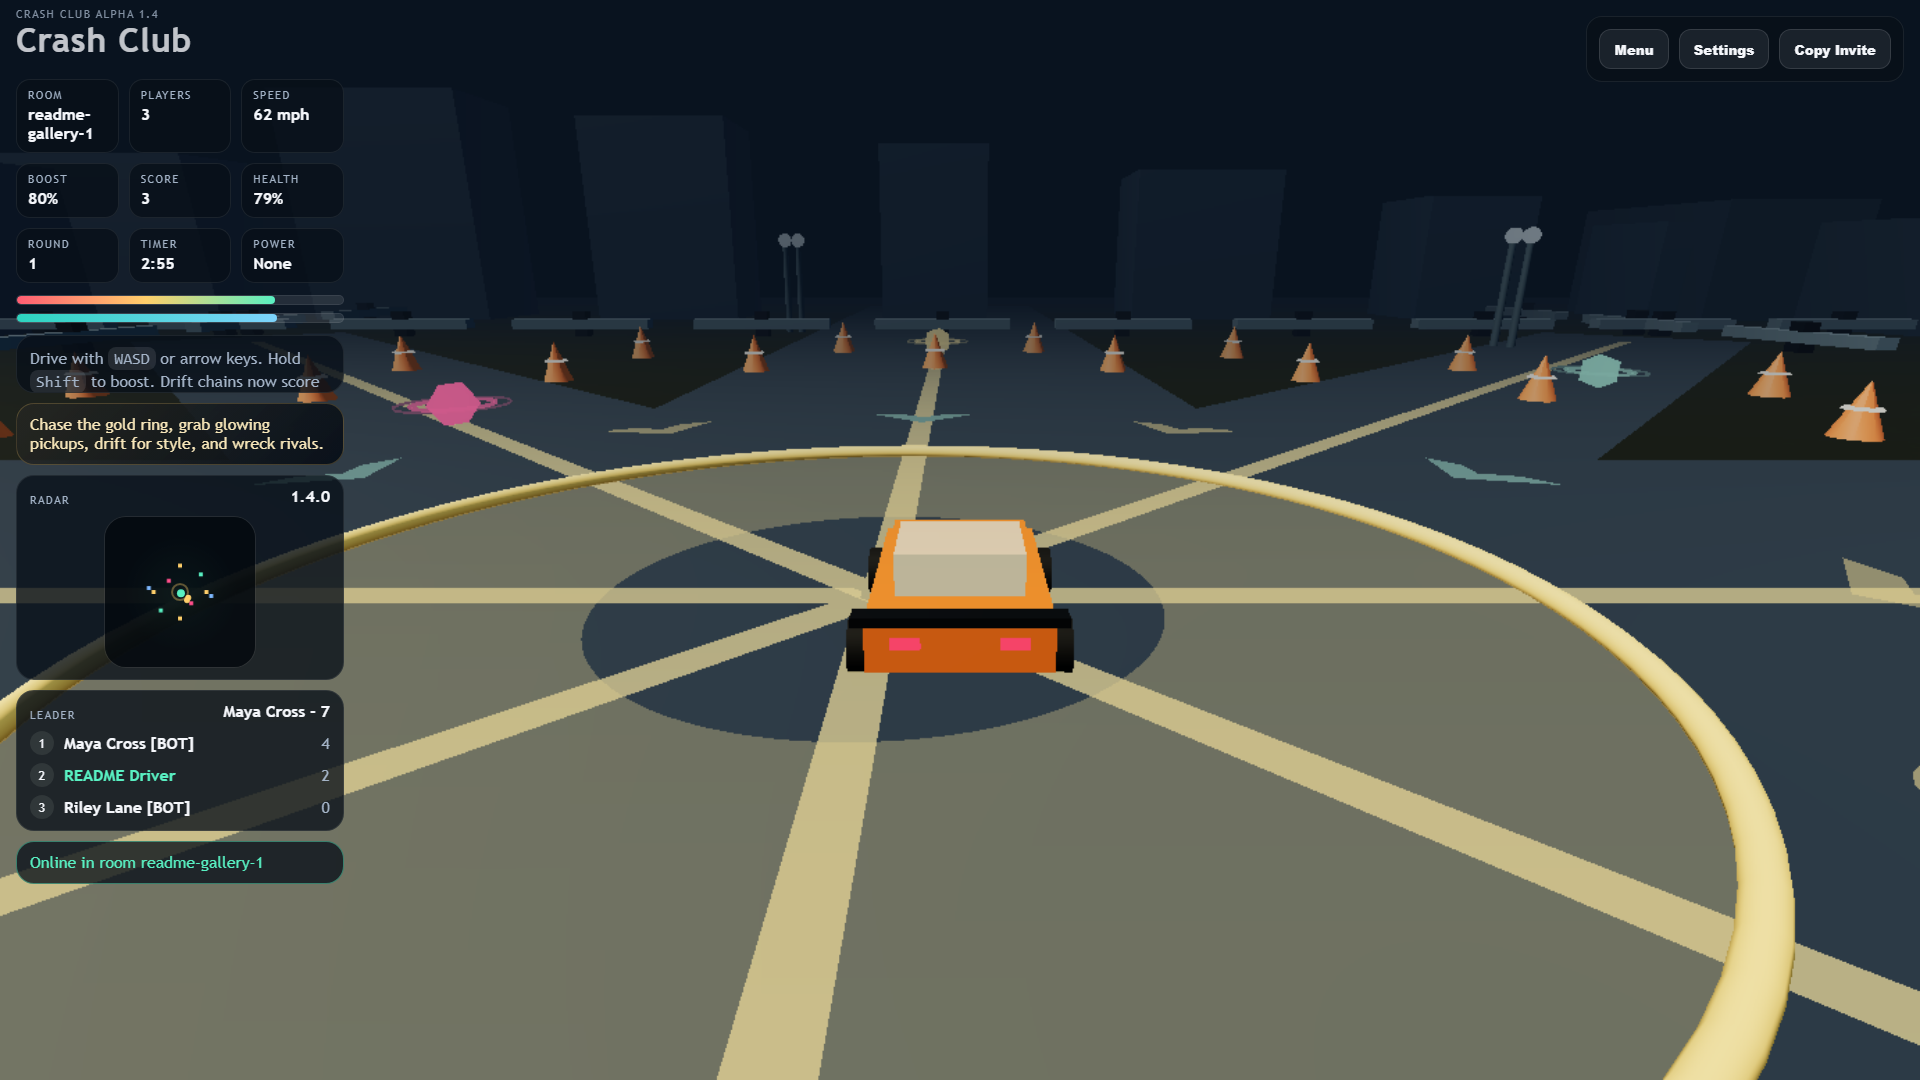
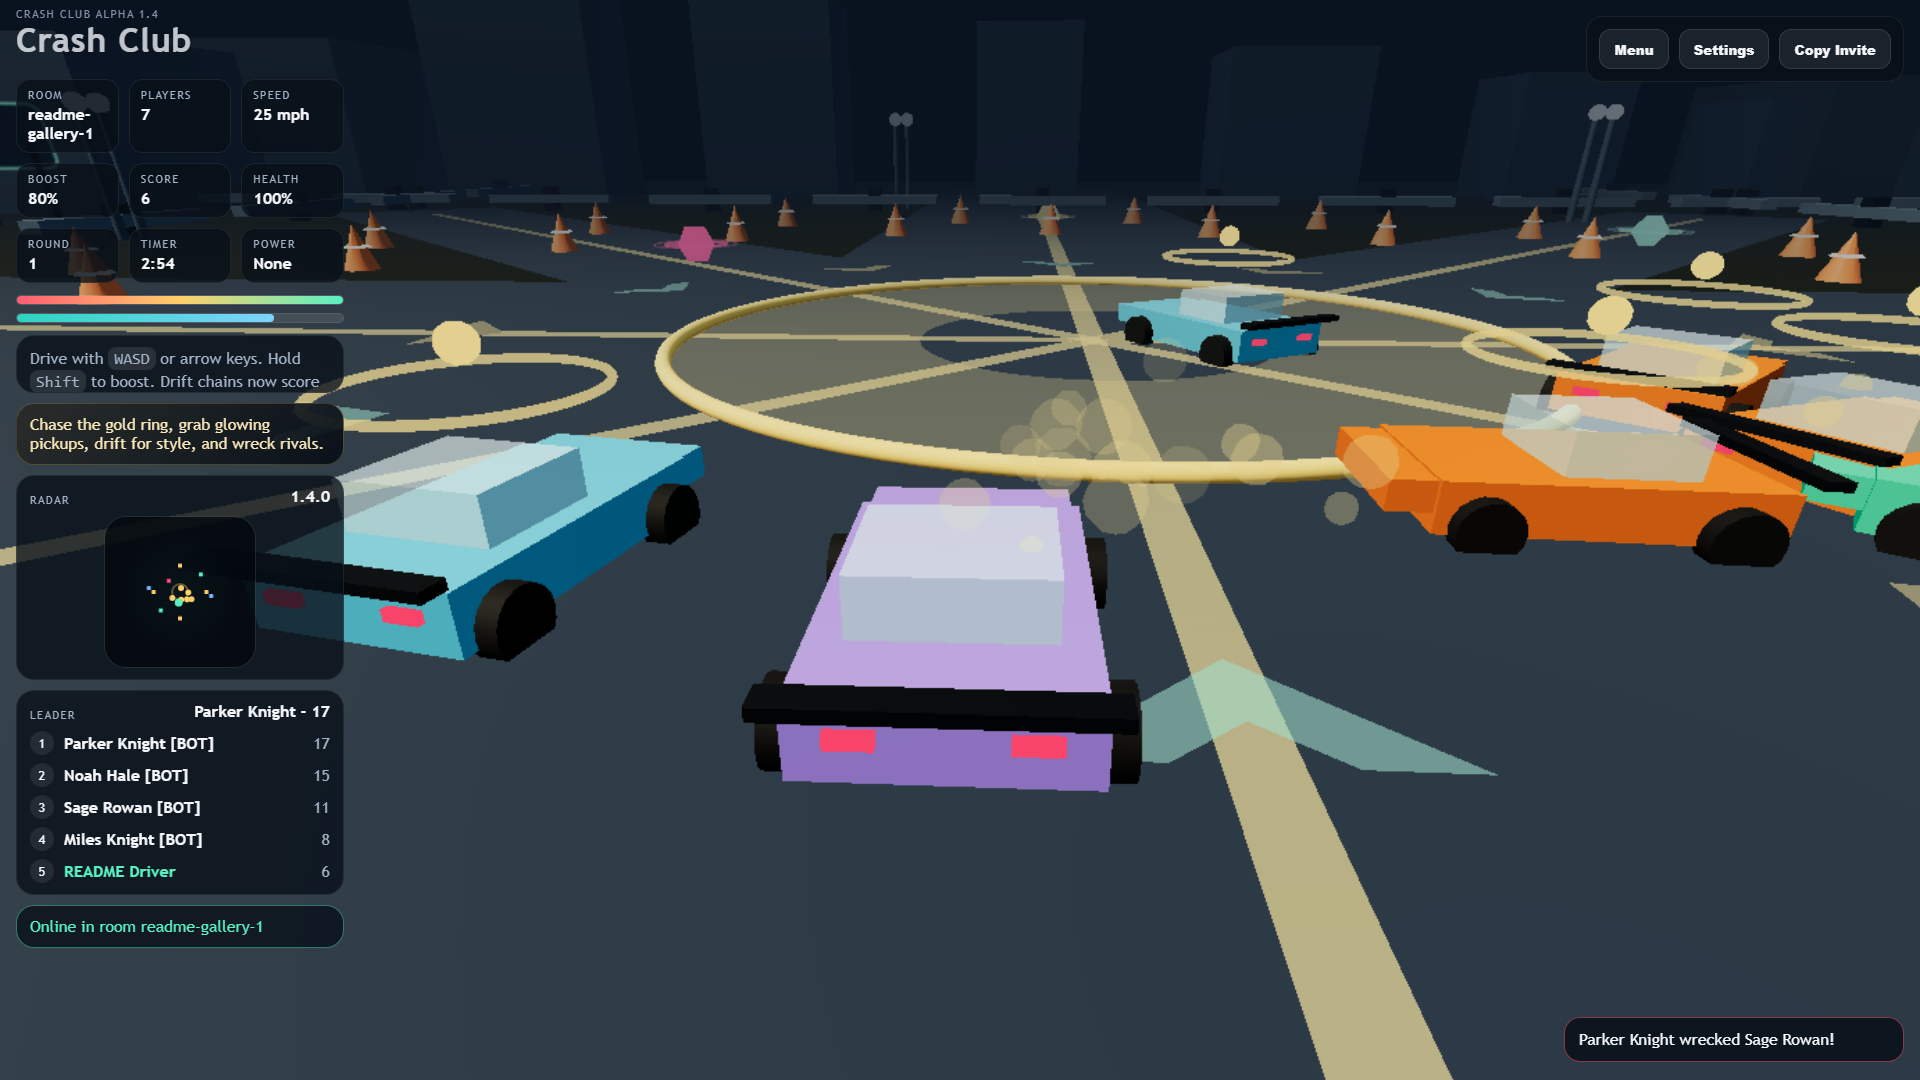
Tune bots and add room picker

diff --git a/public/app.js b/public/app.js
@@ -25,6 +25,7 @@ import("three")
       app: document.getElementById("app"),
       release: document.getElementById("release-screen"),
       name: document.getElementById("name-input"),
+      roomInput: document.getElementById("room-input"),
       start: document.getElementById("start-button"),
       rename: document.getElementById("rename-button"),
       menu: document.getElementById("menu-button"),
@@ -60,14 +61,16 @@ import("three")
       sound: document.getElementById("sound-toggle"),
       soundMenu: document.getElementById("sound-toggle-popover"),
       volume: document.getElementById("volume-slider"),
-      volumeMenu: document.getElementById("volume-slider-popover")
+      volumeMenu: document.getElementById("volume-slider-popover"),
+      roomInputMenu: document.getElementById("room-input-popover"),
+      roomJoin: document.getElementById("room-join-button")
     };
     const modeOverlay = createModeOverlay();
     const settings = loadSettings();
     applyQualityClasses();
 
     const url = new URL(location.href);
-    const roomCode = sanitizeRoom(url.searchParams.get("room") || "main");
+    let roomCode = sanitizeRoom(url.searchParams.get("room") || localStorage.getItem("crash-club-room") || "main");
     const input = new Set();
     const players = new Map();
     const pickups = new Map();
@@ -173,6 +176,7 @@ import("three")
     if (els.room) els.room.textContent = roomCode;
     if (els.version) els.version.textContent = VERSION;
     if (els.name) els.name.value = state.car.name;
+    syncRoomInputs();
 
     const scene = new THREE.Scene();
     scene.background = new THREE.Color("#09131f");
@@ -1170,6 +1174,16 @@ import("three")
       els.name?.addEventListener("keydown", (event) => {
         if (event.key === "Enter") startDriving();
       });
+      els.roomInput?.addEventListener("keydown", (event) => {
+        if (event.key === "Enter") startDriving();
+      });
+      els.roomInputMenu?.addEventListener("keydown", (event) => {
+        if (event.key === "Enter") {
+          event.preventDefault();
+          joinTypedRoom();
+        }
+      });
+      els.roomJoin?.addEventListener("click", joinTypedRoom);
       addEventListener("pointermove", handlePointerLook);
       addEventListener("pointerdown", (event) => {
         if (state.mode === "gulag") {
@@ -1233,6 +1247,57 @@ import("three")
         button.addEventListener("pointercancel", release);
         button.addEventListener("pointerleave", release);
       }
+    }
+
+    function syncRoomInputs() {
+      for (const input of [els.roomInput, els.roomInputMenu]) {
+        if (input) input.value = roomCode;
+      }
+      if (els.room) els.room.textContent = roomCode;
+    }
+
+    function setRoomCode(value, options = {}) {
+      const nextRoom = sanitizeRoom(value);
+      const changed = nextRoom !== roomCode;
+      roomCode = nextRoom;
+      state.room.code = roomCode;
+      localStorage.setItem("crash-club-room", roomCode);
+      syncRoomInputs();
+      if (options.updateUrl !== false) {
+        const nextUrl = new URL(location.href);
+        if (roomCode === "main") nextUrl.searchParams.delete("room");
+        else nextUrl.searchParams.set("room", roomCode);
+        history.replaceState(null, "", `${nextUrl.pathname}${nextUrl.search}${nextUrl.hash}`);
+      }
+      return changed;
+    }
+
+    function getTypedRoomCode() {
+      return els.roomInputMenu?.value || els.roomInput?.value || roomCode;
+    }
+
+    function roomShareUrl(code = roomCode) {
+      const nextRoom = sanitizeRoom(code);
+      const invite = new URL(location.href);
+      if (nextRoom === "main") invite.searchParams.delete("room");
+      else invite.searchParams.set("room", nextRoom);
+      return invite.toString();
+    }
+
+    function joinTypedRoom() {
+      const changed = setRoomCode(getTypedRoomCode());
+      if (state.joined && changed) {
+        toast(`Switching to room ${roomCode}...`, "info");
+        location.assign(roomShareUrl(roomCode));
+        return;
+      }
+      if (!state.joined) {
+        startDriving();
+        return;
+      }
+      toggleSettingsPanel(false);
+      setMenu(false);
+      toast(`Already in room ${roomCode}.`, "info");
     }
 
     function setupSettingsControls() {
@@ -1346,6 +1411,12 @@ import("three")
     }
 
     function startDriving() {
+      const changedRoom = setRoomCode(els.roomInput?.value || roomCode);
+      if (state.joined && changedRoom) {
+        toast(`Switching to room ${roomCode}...`, "info");
+        location.assign(roomShareUrl(roomCode));
+        return;
+      }
       saveName({ silent: true });
       setStatus("Connecting to Crash Club...", "offline");
       if (!state.socket || state.socket.readyState > WebSocket.OPEN) {
@@ -1395,7 +1466,7 @@ import("three")
         state.id = String(msg.id);
         state.joined = true;
         state.mode = "arena";
-        state.room.code = msg.room || roomCode;
+        setRoomCode(msg.room || roomCode);
         applyRoom(msg.roomState);
         setPlayers(msg.players || []);
         setPickups(msg.pickups || []);
@@ -2553,7 +2624,7 @@ import("three")
     }
 
     function copyInvite() {
-      const invite = `${location.origin}${location.pathname}?room=${state.room.code || roomCode}`;
+      const invite = roomShareUrl(state.room.code || roomCode);
       navigator.clipboard?.writeText(invite).then(
         () => toast("Invite copied.", "info"),
         () => toast(invite, "info")

diff --git a/server.js b/server.js
@@ -5,8 +5,8 @@ const { WebSocketServer } = require("ws");
 
 const PORT = process.env.PORT || 3000;
 const GAME_VERSION = "1.4.0";
-const TICK_RATE = Number(process.env.CRASH_CLUB_TICK_RATE || 12);
-const SNAPSHOT_RATE = Number(process.env.CRASH_CLUB_SNAPSHOT_RATE || 6);
+const TICK_RATE = Number(process.env.CRASH_CLUB_TICK_RATE || 20);
+const SNAPSHOT_RATE = Number(process.env.CRASH_CLUB_SNAPSHOT_RATE || 12);
 const SCORE_TICK_MS = 500;
 const PICKUP_RESPAWN_MS = 10000;
 const WORLD_SIZE = 180;
@@ -19,9 +19,9 @@ const SHIELD_DURATION_MS = 8000;
 const SLAM_DURATION_MS = 9000;
 const WRECK_RESPAWN_MS = 1800;
 const GULAG_DURATION_MS = 45000;
-const BOT_TARGET_PLAYERS = Number(process.env.CRASH_CLUB_BOT_TARGET || 3);
-const BOT_DECISION_MIN_MS = 520;
-const BOT_DECISION_MAX_MS = 1150;
+const BOT_TARGET_BOTS = Number(process.env.CRASH_CLUB_BOT_TARGET || 6);
+const BOT_DECISION_MIN_MS = 360;
+const BOT_DECISION_MAX_MS = 820;
 const BOT_HIT_COOLDOWN_MS = 650;
 const STYLE_SCORE_COOLDOWN_MS = 1250;
 
@@ -297,7 +297,7 @@ function botCount(room) {
 
 function ensureBots(room) {
   const humans = humanCount(room);
-  const desiredBots = humans > 0 ? Math.max(0, BOT_TARGET_PLAYERS - humans) : 0;
+  const desiredBots = humans > 0 ? Math.max(0, BOT_TARGET_BOTS) : 0;
 
   while (botCount(room) < desiredBots) {
     const bot = createBot(room);
@@ -620,8 +620,6 @@ function updateBots(room, now, deltaSeconds) {
     return;
   }
 
-  const botDelta = deltaSeconds * 0.72;
-
   for (const bot of room.players.values()) {
     if (!bot.isBot) {
       continue;
@@ -639,12 +637,18 @@ function updateBots(room, now, deltaSeconds) {
     const dx = bot.botTarget.x - bot.x;
     const dz = bot.botTarget.z - bot.z;
     const targetDistance = Math.hypot(dx, dz);
-    const desiredAngle = Math.atan2(dx, dz);
-    const turn = clamp(angleDelta(bot.angle, desiredAngle), -2.2 * botDelta, 2.2 * botDelta);
+    const botSeed = numberFromId(bot.id);
+    const personality = 0.9 + (botSeed % 7) * 0.035;
+    const weave = Math.sin(now * 0.0017 + botSeed) * 0.085;
+    const desiredAngle = Math.atan2(dx, dz) + weave;
+    const turnSpeed = (2.7 + personality * 0.55) * deltaSeconds;
+    const turn = clamp(angleDelta(bot.angle, desiredAngle), -turnSpeed, turnSpeed);
     bot.angle += turn;
-    bot.speed = clamp(bot.speed + (targetDistance > 6 ? 28 : -34) * botDelta, 8, 31);
-    bot.x += Math.sin(bot.angle) * bot.speed * botDelta;
-    bot.z += Math.cos(bot.angle) * bot.speed * botDelta;
+    const speedLimit = 35 + (botSeed % 6) * 1.8 + Math.sin(now * 0.0012 + botSeed) * 3;
+    const acceleration = targetDistance > 7 ? 48 * personality : -56;
+    bot.speed = clamp(bot.speed + acceleration * deltaSeconds, targetDistance > 7 ? 11 : 0, speedLimit);
+    bot.x += Math.sin(bot.angle) * bot.speed * deltaSeconds;
+    bot.z += Math.cos(bot.angle) * bot.speed * deltaSeconds;
     bot.x = clamp(bot.x, -WORLD_SIZE, WORLD_SIZE);
     bot.z = clamp(bot.z, -WORLD_SIZE, WORLD_SIZE);
     bot.y = 0.08;
@@ -675,13 +679,13 @@ function updateBots(room, now, deltaSeconds) {
 
       const distance = Math.hypot(bot.x - target.x, bot.z - target.z);
       if (distance < 5.1 && bot.speed > 13) {
-        const damage = Math.round(clamp(bot.speed / 31, 0.32, 1.05) * 22);
+        const damage = Math.round(clamp(bot.speed / 38, 0.32, 1.08) * 23);
         damagePlayer(room, bot, target, damage, now);
         broadcastRoom(room, {
           type: "impact",
           sourceId: bot.id,
           targetId: target.id,
-          impulse: clamp(bot.speed / 28, 0.25, 1.15),
+          impulse: clamp(bot.speed / 34, 0.25, 1.18),
           slam: false
         });
         bot.botNextHitAt = now + BOT_HIT_COOLDOWN_MS;

diff --git a/public/index.html b/public/index.html
@@ -30,6 +30,10 @@
             Driver Name
             <input id="name-input" maxlength="18" placeholder="Pick a name" />
           </label>
+          <label>
+            Room Code
+            <input id="room-input" maxlength="16" placeholder="main" />
+          </label>
           <button id="start-button" class="primary-action">Start Driving</button>
           <button id="rename-button" class="secondary-action">Save Name</button>
         </div>
@@ -175,6 +179,11 @@
         Volume
         <input id="volume-slider-popover" type="range" min="0" max="100" value="55" />
       </label>
+      <label>
+        Room Code
+        <input id="room-input-popover" maxlength="16" placeholder="main" />
+      </label>
+      <button id="room-join-button">Join Room</button>
       <p>Performance mode lowers render scale, shadows, labels, pickups, particles, radar redraws, and bot/network pressure.</p>
     </div>
 

diff --git a/public/styles.css b/public/styles.css
@@ -433,7 +433,7 @@ canvas {
 
 .release-actions {
   display: grid;
-  grid-template-columns: minmax(170px, 1fr) auto auto;
+  grid-template-columns: repeat(2, minmax(150px, 1fr)) auto auto;
   gap: 10px;
   align-items: end;
   margin-top: 24px;
@@ -447,7 +447,9 @@ canvas {
   font-size: 0.85rem;
 }
 
-.release-actions input {
+.release-actions input,
+.settings-card input[type="text"],
+.settings-popover input[type="text"] {
   width: 100%;
   background: rgba(255, 255, 255, 0.08);
   color: var(--text);

diff --git a/README.md b/README.md
@@ -47,7 +47,7 @@ Alpha 1.4 is a performance and feel pass. The goal is not just adding more stuff
 | Settings menu | Graphics, sound, and volume controls are available on the start screen and in-game. |
 | Sound pass | Adds toggleable sound effects and a lightweight engine hum that reacts to speed and boost. |
 | Smoother driving | Lower top speed, smoother boost, better control, and less visual spam during impacts and drifts. |
-| Server load | Default rooms use fewer bots, snapshots are rate-limited, bot pickup checks are throttled, and bot pickup messages are quieter. |
+| Server load | Active rooms now default to 6 bots, smoother 20 Hz bot simulation, 12 Hz snapshots, and quieter bot pickup messages. |
 
 ## Feature Tour
 
@@ -57,7 +57,7 @@ Alpha 1.4 is a performance and feel pass. The goal is not just adding more stuff
   <img src="./assets/readme/github/01-start-screen.png" alt="Actual Crash Club start screen with driver name input and control hints" width="88%" />
 </p>
 
-The start screen makes the project feel like a real release instead of a blank WebGL test. Players can choose a name, save it, start driving, adjust performance settings, and see the main controls before entering the arena.
+The start screen makes the project feel like a real release instead of a blank WebGL test. Players can choose a name, type a room code, save it, start driving, adjust performance settings, and see the main controls before entering the arena.
 
 | Action | Keyboard | Touch |
 | --- | --- | --- |
@@ -99,7 +99,7 @@ Powerups spawn as visible glowing pickups around the arena and on the radar. Cur
 
 Crash Club fills active rooms with bot racers so solo testing still feels alive. Friends can join the same match with the room URL, and the same server systems handle human cars and bot cars together.
 
-Rooms are URL-based. A room like `?room=after-school` lets multiple devices join the same match when they connect to the host machine on the same Wi-Fi.
+Rooms can be joined from the room input on the start screen, from the in-game Settings panel, or directly from a URL. A room like `?room=crew` lets multiple devices join the same match when they connect to the host machine on the same Wi-Fi.
 
 ### Gulag Duels And Redeploys
 
@@ -158,13 +158,13 @@ Open the game:
 
 ```text
 http://localhost:3000
-http://localhost:3000?room=after-school
+http://localhost:3000?room=crew
 ```
 
 To play with other devices on the same Wi-Fi, use your computer's LAN address instead of `localhost`, then keep the same `?room=` code.
 
 ```text
-http://YOUR-LAN-IP:3000?room=after-school
+http://YOUR-LAN-IP:3000?room=crew
 ```
 
 Check server status:
@@ -181,6 +181,8 @@ Crash Club is ready for a Render web service. The repo includes [render.yaml](./
 
 Full steps are in [DEPLOY.md](./DEPLOY.md).
 
+Vercel note: the current live multiplayer backend uses a long-running WebSocket server. Vercel can host the static frontend, but Vercel Functions do not act as a WebSocket server, so the multiplayer backend still needs a Node web service unless the networking layer is rewritten.
+
 ```text
 Service type: Web Service
 Runtime: Node
@@ -192,7 +194,7 @@ Health check: /health
 After deploy, use the public Render URL as the game link. Room codes still work the same way:
 
 ```text
-https://YOUR-SERVICE.onrender.com?room=after-school
+https://YOUR-SERVICE.onrender.com?room=crew
 ```
 
 ## Performance Settings
@@ -212,13 +214,13 @@ Performance mode is the default in Alpha 1.4 because the game should feel playab
 Server-side tuning is also available through environment variables:
 
 ```powershell
-$env:CRASH_CLUB_BOT_TARGET="3"
-$env:CRASH_CLUB_TICK_RATE="12"
-$env:CRASH_CLUB_SNAPSHOT_RATE="6"
+$env:CRASH_CLUB_BOT_TARGET="6"
+$env:CRASH_CLUB_TICK_RATE="20"
+$env:CRASH_CLUB_SNAPSHOT_RATE="12"
 npm.cmd start
 ```
 
-Use `CRASH_CLUB_BOT_TARGET=0` for a human-only room, or raise it if your machine can handle more traffic.
+Use `CRASH_CLUB_BOT_TARGET=0` for a human-only room. The default is 6 bots per active room.
 
 ## Tech Stack
 

diff --git a/DEPLOY.md b/DEPLOY.md
@@ -27,9 +27,9 @@ Useful environment variables:
 
 ```text
 NODE_ENV=production
-CRASH_CLUB_BOT_TARGET=3
-CRASH_CLUB_TICK_RATE=12
-CRASH_CLUB_SNAPSHOT_RATE=6
+CRASH_CLUB_BOT_TARGET=6
+CRASH_CLUB_TICK_RATE=20
+CRASH_CLUB_SNAPSHOT_RATE=12
 ```
 
 ## After Deploy
@@ -38,7 +38,7 @@ When Render gives you a public URL, open:
 
 ```text
 https://YOUR-SERVICE.onrender.com
-https://YOUR-SERVICE.onrender.com?room=after-school
+https://YOUR-SERVICE.onrender.com?room=crew
 https://YOUR-SERVICE.onrender.com/health
 ```
 
@@ -48,4 +48,8 @@ The browser client automatically chooses `wss://` when the page is served over `
 
 Free Render web services can sleep after inactivity, so the first load after a break might take a little while. For a smoother always-online game, upgrade the instance later.
 
-Vercel and Netlify are great for static sites, but Crash Club's multiplayer server is stateful and WebSocket-based, so a normal Node web service is the better fit.
+## Vercel Note
+
+Vercel is great for frontend hosting, but this version of Crash Club cannot run its multiplayer backend fully on Vercel because the server is stateful and WebSocket-based. Vercel Functions do not act as WebSocket servers.
+
+If you want to use Vercel anyway, use it for a static frontend later and keep the multiplayer Node server on a WebSocket-capable host such as Render. Running the whole current game on Vercel would require a bigger networking rewrite.
